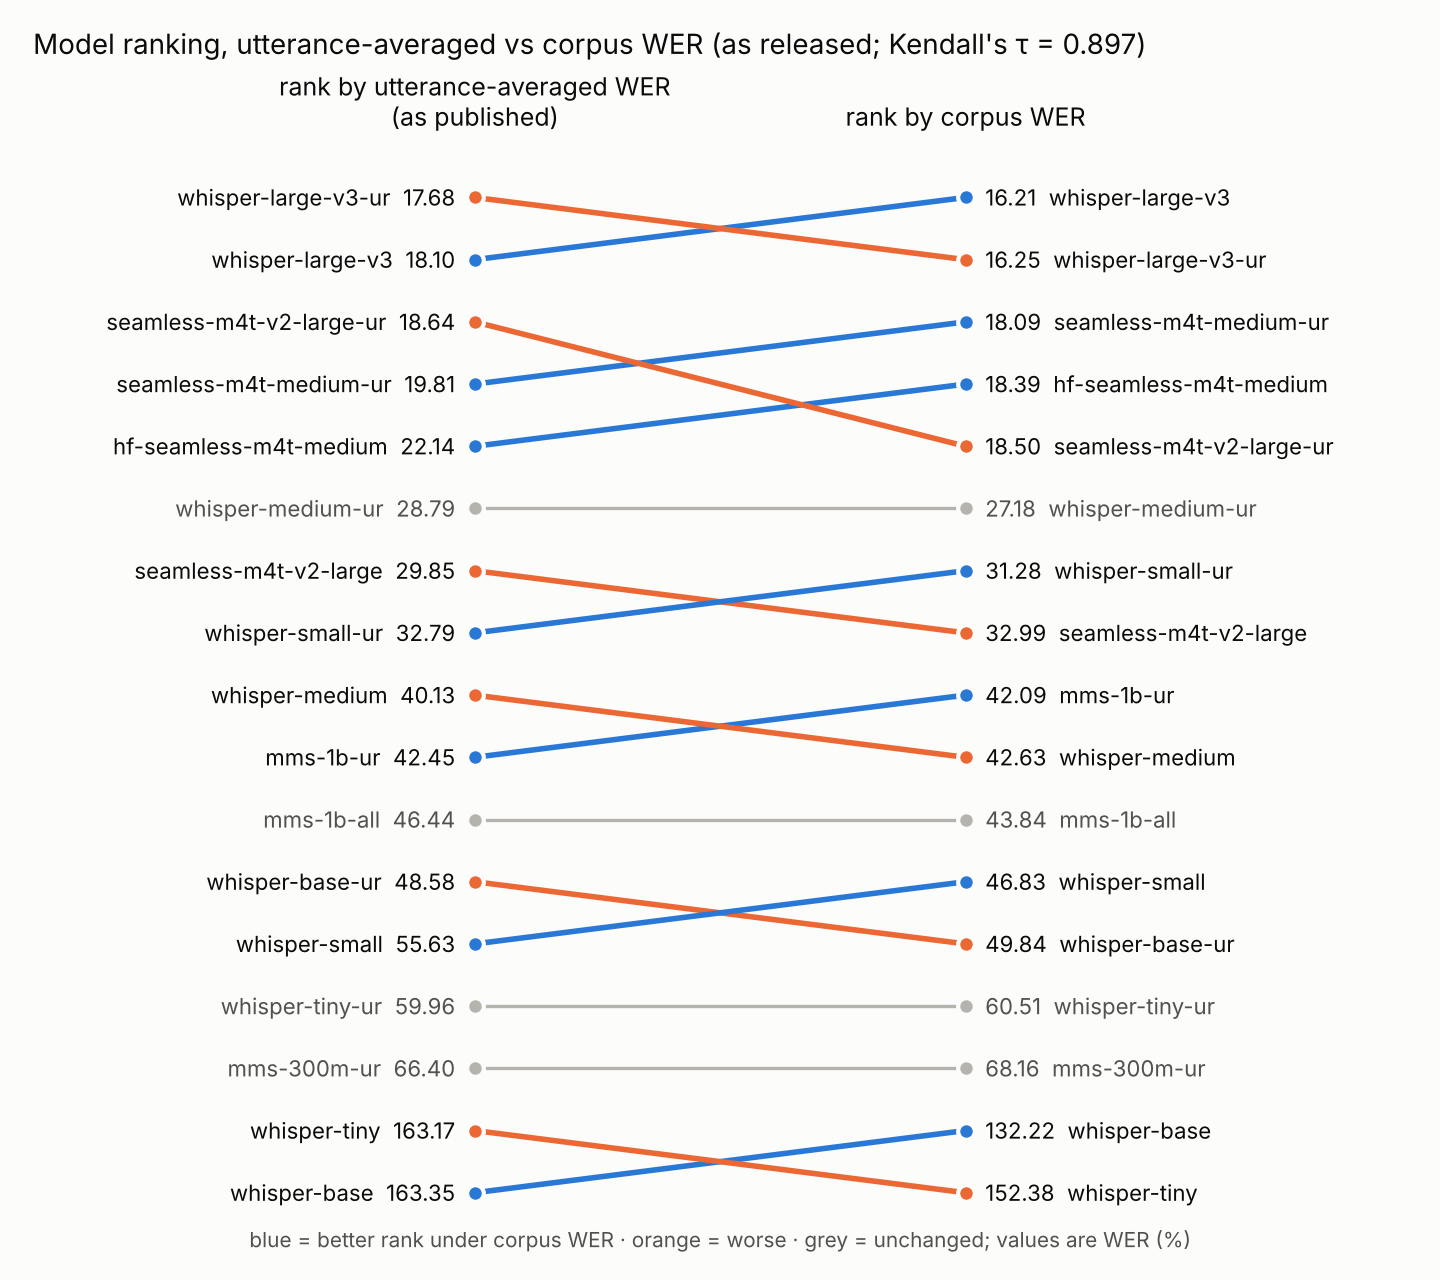
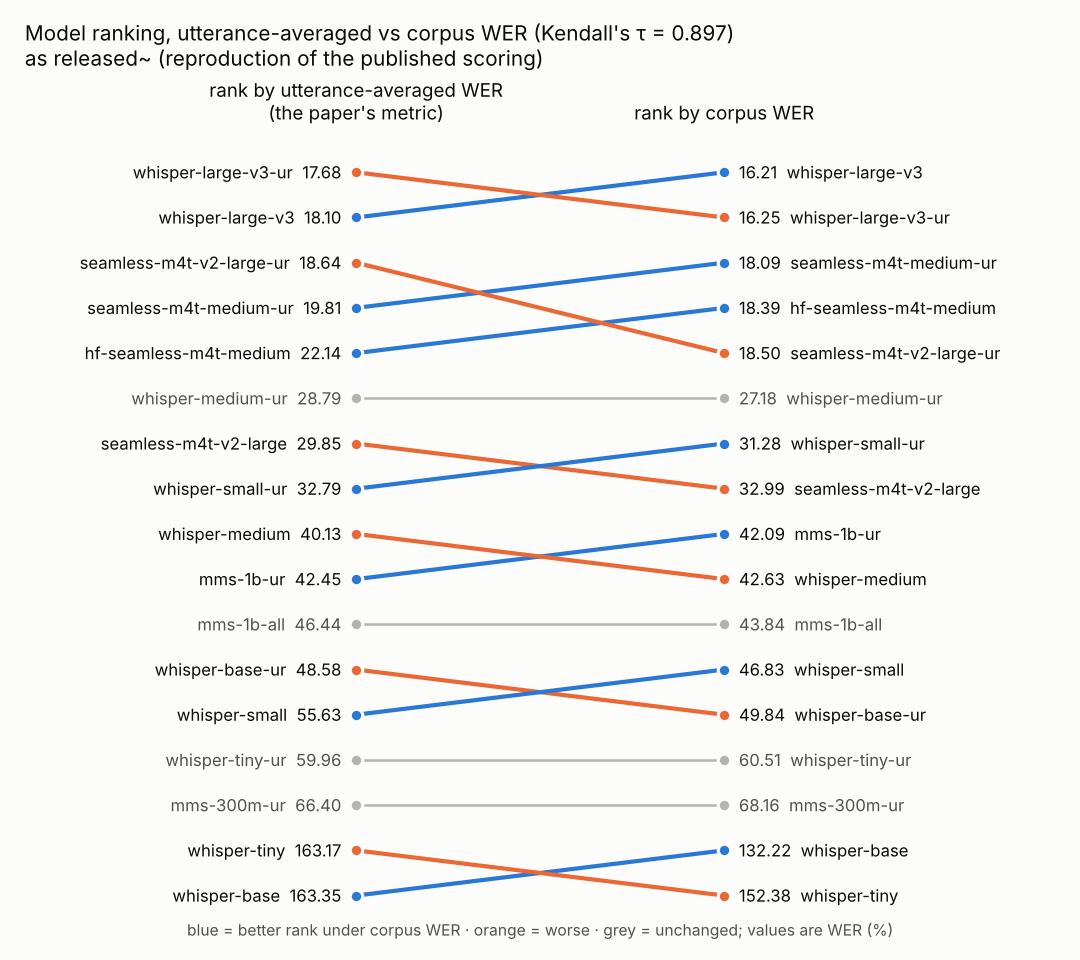
Re-render figures at 5fe873c (condition-aware labels, DPI 150)
Claude-Session: https://claude.ai/code/session_014XAjGZ2CxTbkNVUDzEv79D

diff --git a/results/RUNS.md b/results/RUNS.md
@@ -49,3 +49,20 @@ Append-only record of experiment/analysis runs (no reference text).
[1 lines of base64/hex data omitted]
 - Sanity checks (zoomed crop of the finer-split panel): the whisper-large-v3-ur circle at 31-50 is visible; the whisper-large-v3 orange squares at 16-30 and 31-50 are fully visible, with no line crossing them. All markers are visible in both panels. Legend lines are solid, the footnote is clear of the edge, and no text overlaps.
 - Warnings: none.
+
+## 2026-11-21T12:39:55Z — make_figures.py re-run after label/tau fixes (DPI 150)
+
+- Worktree / branch: `/home/user/wt/d` / `figures`
+- Commit: `5fe873cdd6d59cfd5df0b994d75336ec6bfc35b5` ("make_figures: condition-aware labels and tau, honest as_released~ label"). Changes: titles use `condition_label()`; tau is computed with `scipy.stats.kendalltau` from the two plotted rankings; left axis reads "(the paper's metric)"; the footnote is derived from the smallest spec bucket; DPI 200 -> 150; `--condition` restricted to `as_released~`/`N7_numwords`.
+- Tree state before run: only untracked `external/` (not an input). The previous figures and RUNS.md are committed in `81f3e6e`.
+- Command (from repo root): `python3 src/make_figures.py --results-dir results` (default `--condition as_released~`)
+- Exit status: 0; wall time: 1.58 s
+- Environment: Python 3.13.18, matplotlib 3.11.2 (Agg), scipy 1.18.1 (newly imported; `scipy>=1.10` in requirements.txt)
+- Inputs (working-tree blob == `HEAD:<file>` blob): `results/reeval_table.csv` `a55dcad3b2201fdc3dc338ea1a4b470b5267ccb3`; `results/reeval_length_buckets.csv` `7666fecb0424dad745521076c8740d5d4f45676d` (unchanged).
+- Outputs:
[2 lines of base64/hex data omitted]
+- Sanity checks:
+  - Slope chart: title reads "(Kendall's τ = 0.897)" over "as released~ (reproduction of the published scoring)", and the computed τ matches the table's `kendall_tau_vs_as_released` for corpus_wer (0.897). Left header reads "(the paper's metric)". 17 models appear on each side. Spot-checked against `reeval_table.csv` (overall, as_released~): seamless-m4t-v2-large utt 29.85 (rank 7) / corpus 32.99 (rank 8); mms-1b-ur utt 42.45 (rank 10) / corpus 42.09 (rank 9). Both match.
+  - Length chart: suptitle ends with "— as released~ (reproduction of the published scoring)"; the footnote reads "The ≤5 bucket has only 12 utterances (0.3% of words)"; 5 models in both panels; n = 12/103/356 and 115/149/115/92. All markers are visible (zoomed crop of the finer split), legend lines are solid, and no text overlaps.
+- Warnings: none.
